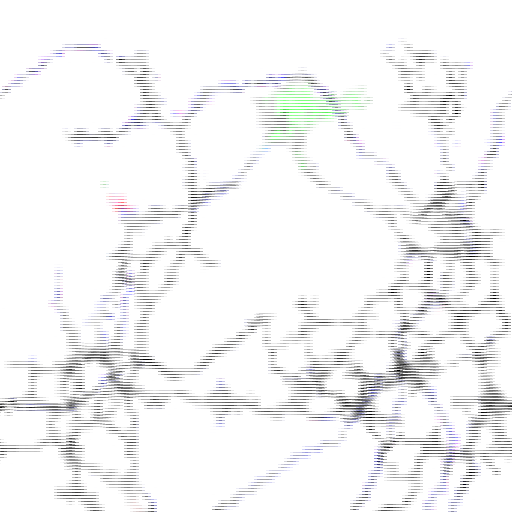
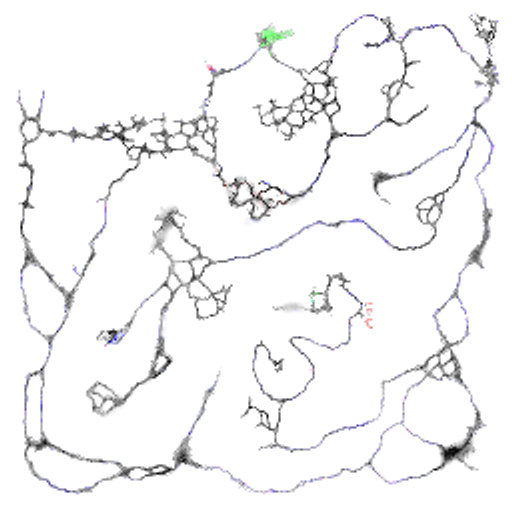
fix(maps): clean terrain layer masks on every map (no more lines and squares on the ground)
The masks of the ground layers came out of the converter broken: sharp returns three channels
when it resizes a one-channel mask, so every row read the next row's bytes (stripes), and lossless
WebP rewrote the colour under the fourth mask's transparent pixels (squares and straight lines).
scaleMask takes one channel back, the sheets are written with exact: true, and the new
'--only masks' converter mode rewrote only masks-<n>.webp of Juno, Dratan, Merac and Egeha
(hunting grounds and props unchanged). Mask and layer files now carry the map revision.

Claude-Session: https://claude.ai/code/session_01DaBhhCgVGefmriEEJNqYK8

diff --git a/src/scene/lcMap.ts b/src/scene/lcMap.ts
@@ -53,8 +53,8 @@ export const mapBase = (map: string) => `${import.meta.env.BASE_URL}maps/${map}/
  * Changed whenever a converter run rewrites a map's description, props or walkable grid: the
  * service worker answers from its cache first, so a new address makes the next start fetch them.
  */
-const MAP_REVISION = '2026-11-05-spawns'
-/** A map file that converter runs rewrite (terrain.json, props, nav.bin), with the revision. */
+const MAP_REVISION = '2026-11-05-masks'
+/** A map file that converter runs rewrite (terrain.json, masks, props, nav.bin), with the revision. */
 export const mapFile = (map: string, name: string) => `${mapBase(map)}${name}?v=${MAP_REVISION}`
 const maps = new Map<string, Promise<LcMap>>()
 /** Maps already fetched, for what needs them at once (planning a run). */

diff --git a/src/scene/LcTerrain.tsx b/src/scene/LcTerrain.tsx
@@ -7,7 +7,7 @@ import {
   SRGBColorSpace,
   type Texture,
 } from 'three'
-import { loadMap, mapBase, type TerrainMeta } from './lcMap.ts'
+import { loadMap, mapFile, type TerrainMeta } from './lcMap.ts'
 import { terrainGeometries } from './lcTerrainGeometry.ts'
 
 // Dratan has 11 layers + 3 mask sheets; one shadow map still fits a 16-sampler mobile GPU.
@@ -20,8 +20,8 @@ const LAYERS = 11
 function useSplatMaterial(map: string, meta: TerrainMeta) {
   const urls = useMemo(
     () => [
-      ...meta.layers.slice(0, LAYERS).map((l) => mapBase(map) + l.texture),
-      ...meta.masks.map((m) => mapBase(map) + m),
+      ...meta.layers.slice(0, LAYERS).map((l) => mapFile(map, l.texture)),
+      ...meta.masks.map((m) => mapFile(map, m)),
     ],
     [map, meta],
   )
